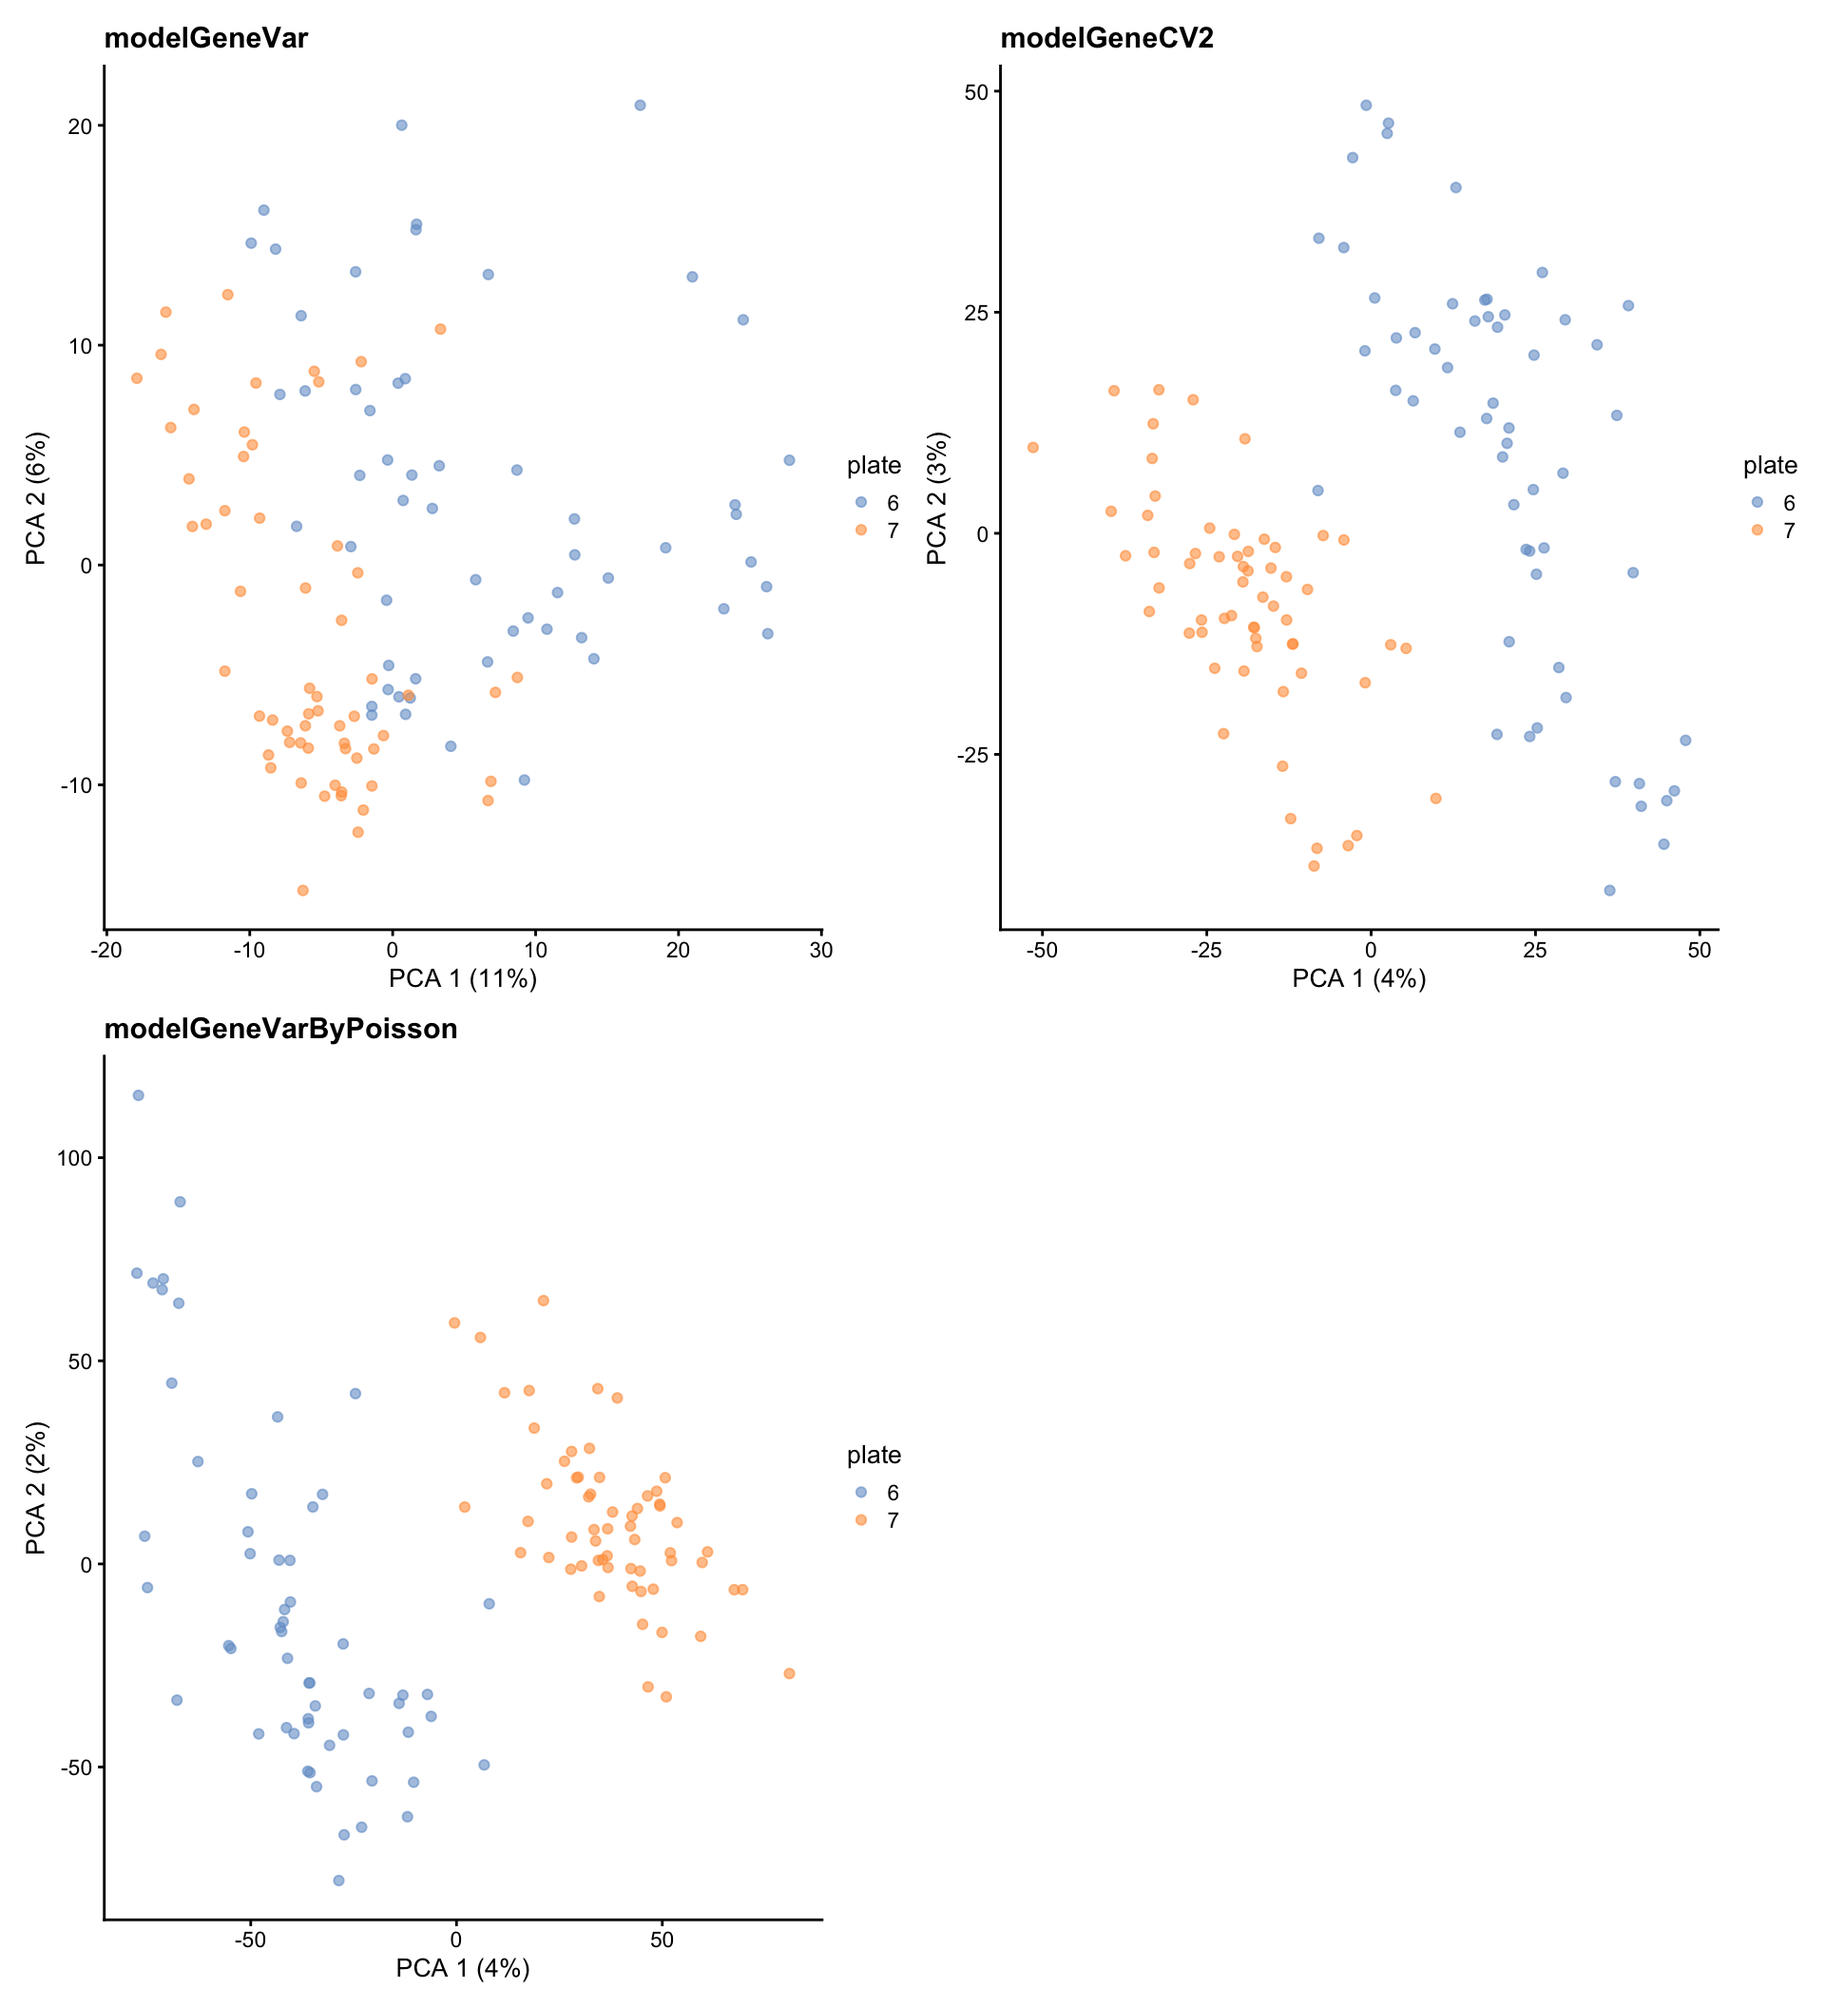
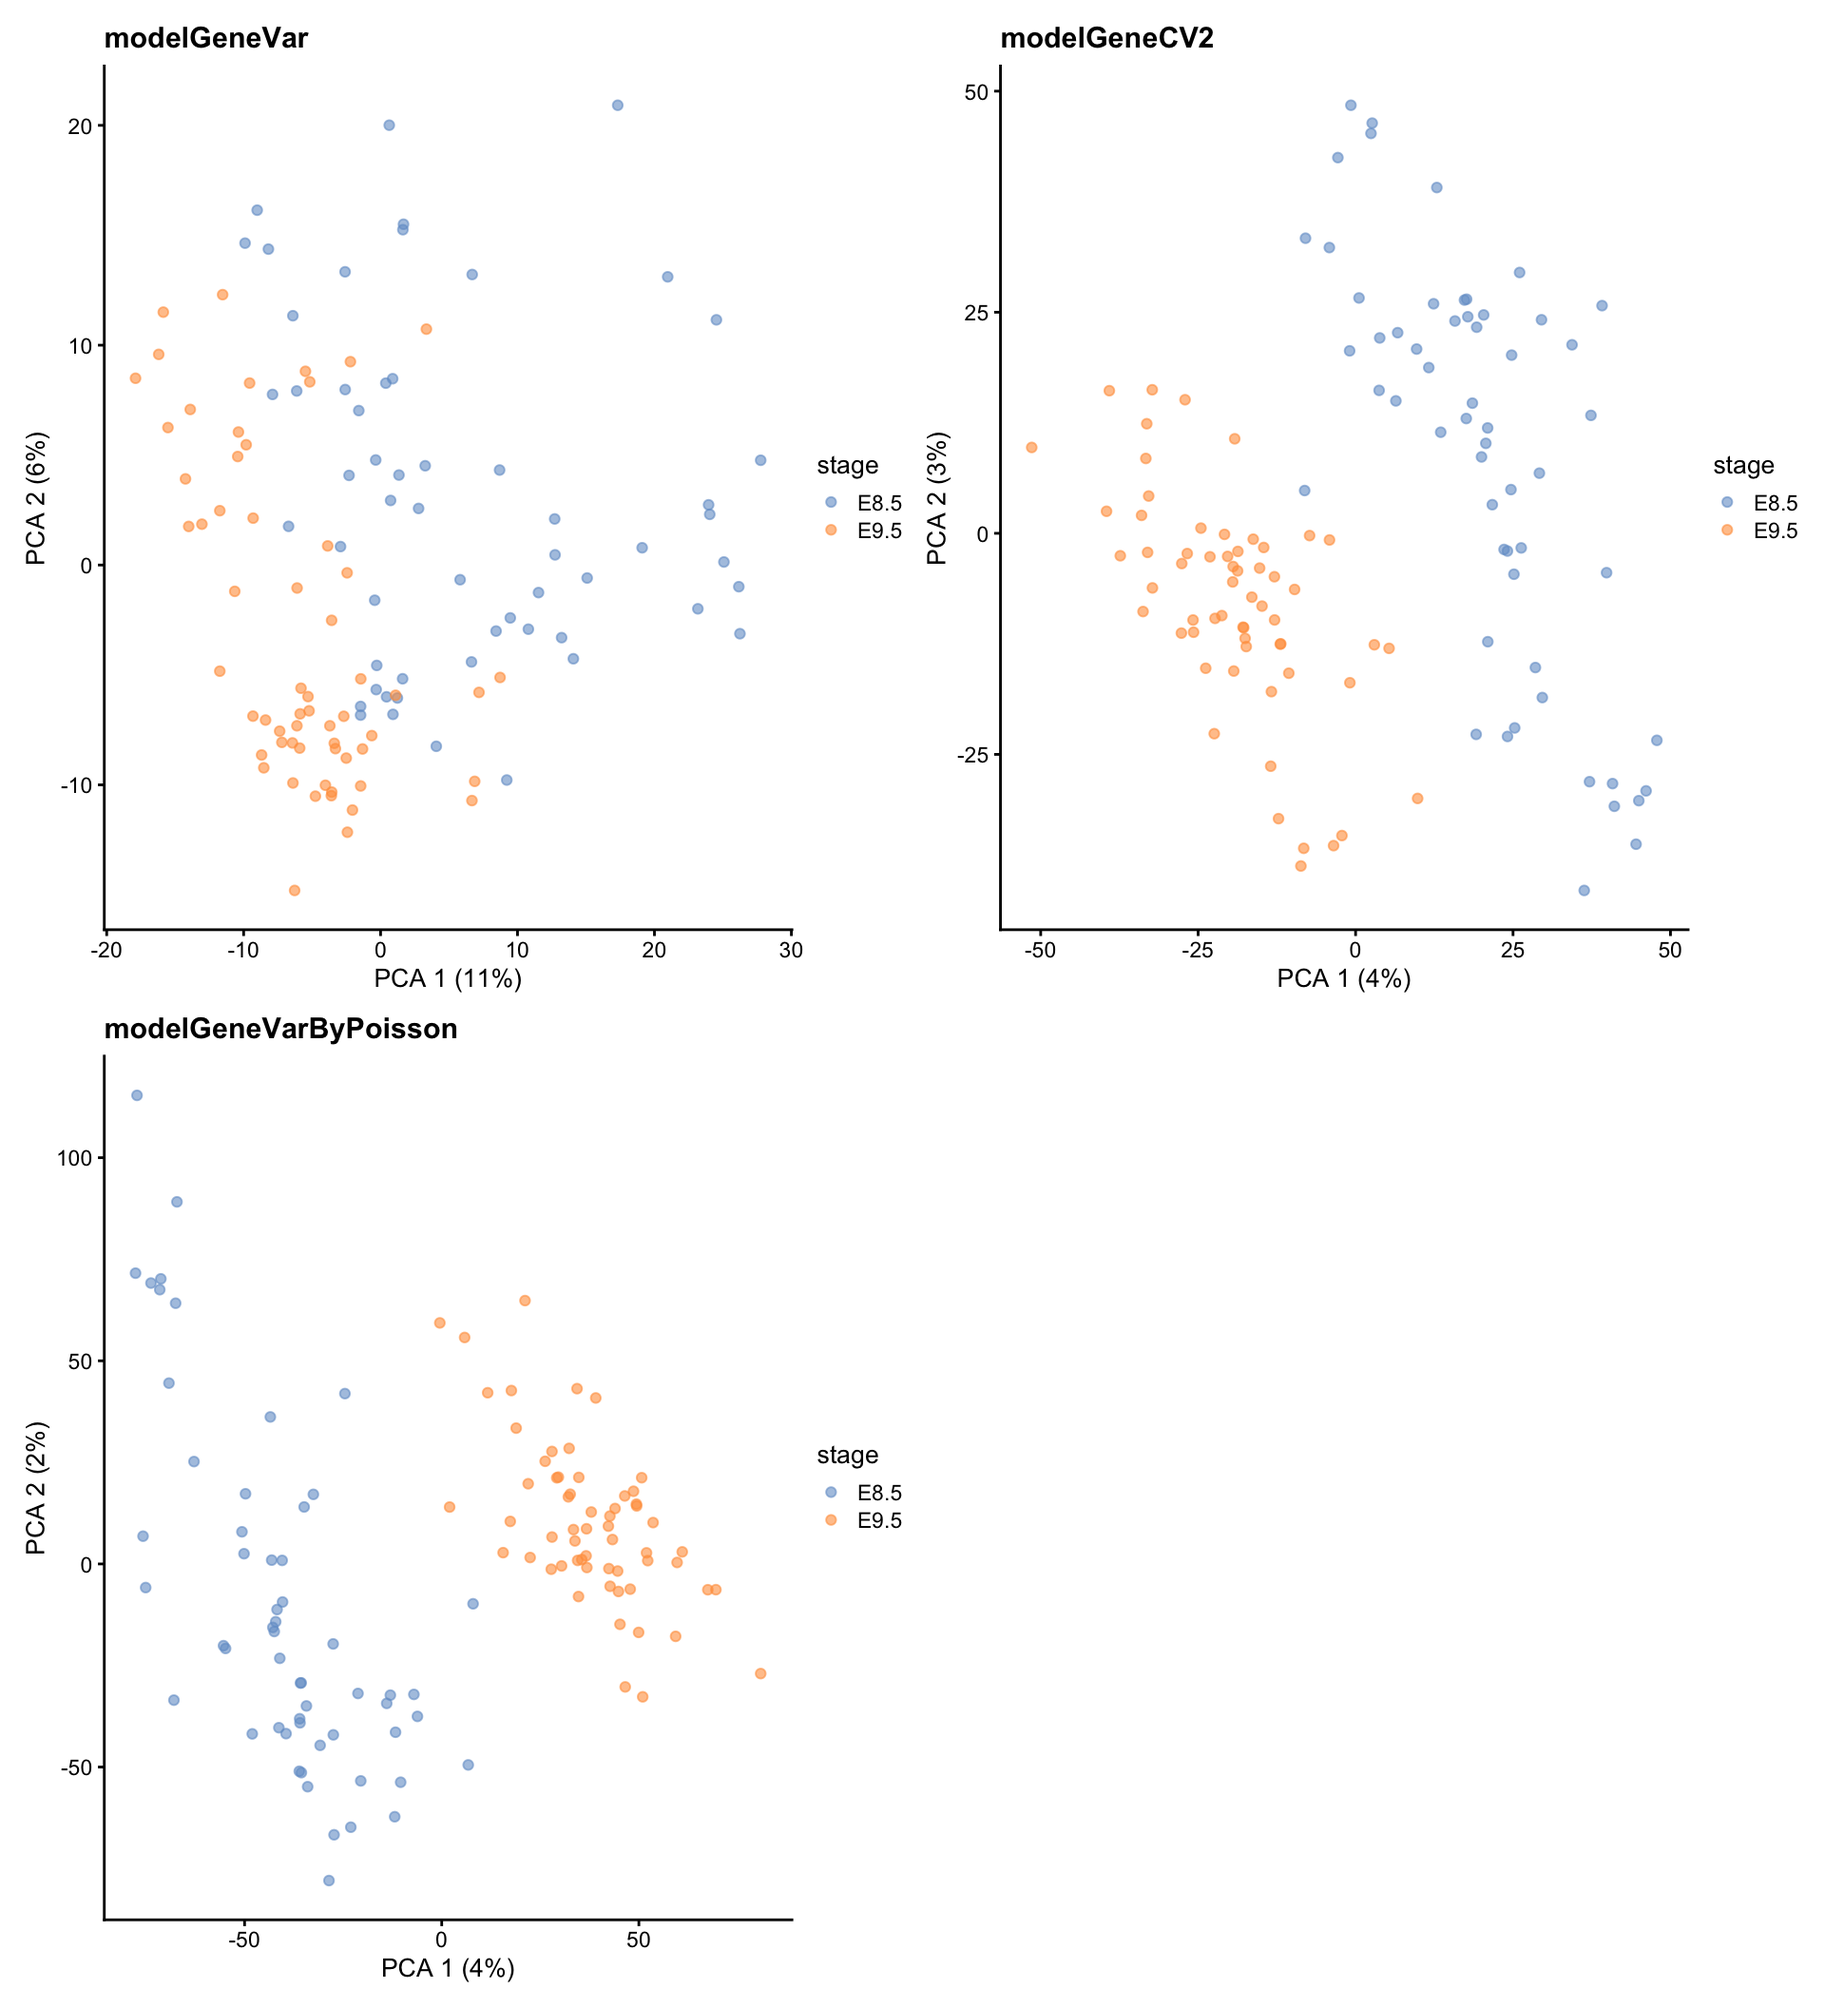
Build

diff --git a/docs/03-feature-selection.html b/docs/03-feature-selection.html
@@ -556,16 +556,16 @@ This reproducible <a href="http://rmarkdown.rstudio.com">R Markdown</a> analysis
 <div class="panel panel-default">
 <div class="panel-heading">
 <p class="panel-title">
-<a data-toggle="collapse" data-parent="#workflowr-checks" href="#strongRepositoryversionstrong5cf5987"> <span class="glyphicon glyphicon-ok text-success" aria-hidden="true"></span> <strong>Repository version:</strong> 5cf5987 </a>
+<a data-toggle="collapse" data-parent="#workflowr-checks" href="#strongRepositoryversionstrong509b55e"> <span class="glyphicon glyphicon-ok text-success" aria-hidden="true"></span> <strong>Repository version:</strong> 509b55e </a>
 </p>
 </div>
-<div id="strongRepositoryversionstrong5cf5987" class="panel-collapse collapse">
+<div id="strongRepositoryversionstrong509b55e" class="panel-collapse collapse">
 <div class="panel-body">
 <p>
 Great! You are using Git for version control. Tracking code development and connecting the code version to the results is critical for reproducibility.
 </p>
 <p>
-The results in this page were generated with repository version 5cf5987. See the <em>Past versions</em> tab to see a history of the changes made to the R Markdown and HTML files.
+The results in this page were generated with repository version 509b55e. See the <em>Past versions</em> tab to see a history of the changes made to the R Markdown and HTML files.
 </p>
 <p>
 Note that you need to be careful to ensure that all relevant files for the analysis have been committed to Git prior to generating the results (you can use <code>wflow_publish</code> or <code>wflow_git_commit</code>). workflowr only checks the R Markdown file, but you know if there are other scripts or data files that it depends on. Below is the status of the Git repository when the results were generated:
@@ -632,6 +632,40 @@ Message
 </tr>
 </thead>
 <tbody>
+<tr>
+<td>
+Rmd
+</td>
+<td>
+509b55e
+</td>
+<td>
+James Ashmore
+</td>
+<td>
+2021-04-16
+</td>
+<td>
+Build
+</td>
+</tr>
+<tr>
+<td>
+html
+</td>
+<td>
+edb4a81
+</td>
+<td>
+James Ashmore
+</td>
+<td>
+2021-04-16
+</td>
+<td>
+Build
+</td>
+</tr>
 <tr>
 <td>
 Rmd
@@ -1131,7 +1165,7 @@ pheatmap(mat, color = col, breaks = brk)</code></pre>
   
   sce &lt;- runPCA(sce, subset_row = hvg, BSPARAM = ExactParam())
 
-  plotPCA(sce, colour_by = &quot;plate&quot;) + ggtitle(x)
+  plotPCA(sce, colour_by = &quot;stage&quot;) + ggtitle(x)
 
 })
 
@@ -1161,6 +1195,17 @@ Date
 <tbody>
 <tr>
 <td>
+edb4a81
+</td>
+<td>
+James Ashmore
+</td>
+<td>
+2021-04-16
+</td>
+</tr>
+<tr>
+<td>
 db982c5
 </td>
 <td>
@@ -1187,7 +1232,7 @@ James Ashmore
   
   sce &lt;- runTSNE(sce, dimred = &quot;PCA&quot;)
 
-  plotTSNE(sce, colour_by = &quot;plate&quot;) + ggtitle(x)
+  plotTSNE(sce, colour_by = &quot;stage&quot;) + ggtitle(x)
 
 })
 
@@ -1217,6 +1262,17 @@ Date
 <tbody>
 <tr>
 <td>
+edb4a81
+</td>
+<td>
+James Ashmore
+</td>
+<td>
+2021-04-16
+</td>
+</tr>
+<tr>
+<td>
 db982c5
 </td>
 <td>
@@ -1243,7 +1299,7 @@ James Ashmore
   
   sce &lt;- runUMAP(sce, dimred = &quot;PCA&quot;)
 
-  plotUMAP(sce, colour_by = &quot;plate&quot;) + ggtitle(x)
+  plotUMAP(sce, colour_by = &quot;stage&quot;) + ggtitle(x)
 
 })
 
@@ -1271,6 +1327,17 @@ Date
 </tr>
 </thead>
 <tbody>
+<tr>
+<td>
+edb4a81
+</td>
+<td>
+James Ashmore
+</td>
+<td>
+2021-04-16
+</td>
+</tr>
 <tr>
 <td>
 62e04e3

diff --git a/docs/02-normalization.html b/docs/02-normalization.html
@@ -556,16 +556,16 @@ This reproducible <a href="http://rmarkdown.rstudio.com">R Markdown</a> analysis
 <div class="panel panel-default">
 <div class="panel-heading">
 <p class="panel-title">
-<a data-toggle="collapse" data-parent="#workflowr-checks" href="#strongRepositoryversionstrong5cf5987"> <span class="glyphicon glyphicon-ok text-success" aria-hidden="true"></span> <strong>Repository version:</strong> 5cf5987 </a>
+<a data-toggle="collapse" data-parent="#workflowr-checks" href="#strongRepositoryversionstrong509b55e"> <span class="glyphicon glyphicon-ok text-success" aria-hidden="true"></span> <strong>Repository version:</strong> 509b55e </a>
 </p>
 </div>
-<div id="strongRepositoryversionstrong5cf5987" class="panel-collapse collapse">
+<div id="strongRepositoryversionstrong509b55e" class="panel-collapse collapse">
 <div class="panel-body">
 <p>
 Great! You are using Git for version control. Tracking code development and connecting the code version to the results is critical for reproducibility.
 </p>
 <p>
-The results in this page were generated with repository version 5cf5987. See the <em>Past versions</em> tab to see a history of the changes made to the R Markdown and HTML files.
+The results in this page were generated with repository version 509b55e. See the <em>Past versions</em> tab to see a history of the changes made to the R Markdown and HTML files.
 </p>
 <p>
 Note that you need to be careful to ensure that all relevant files for the analysis have been committed to Git prior to generating the results (you can use <code>wflow_publish</code> or <code>wflow_git_commit</code>). workflowr only checks the R Markdown file, but you know if there are other scripts or data files that it depends on. Below is the status of the Git repository when the results were generated:
@@ -632,6 +632,23 @@ Message
 </tr>
 </thead>
 <tbody>
+<tr>
+<td>
+html
+</td>
+<td>
+edb4a81
+</td>
+<td>
+James Ashmore
+</td>
+<td>
+2021-04-16
+</td>
+<td>
+Build
+</td>
+</tr>
 <tr>
 <td>
 html

diff --git a/docs/about.html b/docs/about.html
@@ -417,16 +417,16 @@ This reproducible <a href="http://rmarkdown.rstudio.com">R Markdown</a> analysis
 <div class="panel panel-default">
 <div class="panel-heading">
 <p class="panel-title">
-<a data-toggle="collapse" data-parent="#workflowr-checks" href="#strongRepositoryversionstrong5cf5987"> <span class="glyphicon glyphicon-ok text-success" aria-hidden="true"></span> <strong>Repository version:</strong> 5cf5987 </a>
+<a data-toggle="collapse" data-parent="#workflowr-checks" href="#strongRepositoryversionstrong509b55e"> <span class="glyphicon glyphicon-ok text-success" aria-hidden="true"></span> <strong>Repository version:</strong> 509b55e </a>
 </p>
 </div>
-<div id="strongRepositoryversionstrong5cf5987" class="panel-collapse collapse">
+<div id="strongRepositoryversionstrong509b55e" class="panel-collapse collapse">
 <div class="panel-body">
 <p>
 Great! You are using Git for version control. Tracking code development and connecting the code version to the results is critical for reproducibility.
 </p>
 <p>
-The results in this page were generated with repository version 5cf5987. See the <em>Past versions</em> tab to see a history of the changes made to the R Markdown and HTML files.
+The results in this page were generated with repository version 509b55e. See the <em>Past versions</em> tab to see a history of the changes made to the R Markdown and HTML files.
 </p>
 <p>
 Note that you need to be careful to ensure that all relevant files for the analysis have been committed to Git prior to generating the results (you can use <code>wflow_publish</code> or <code>wflow_git_commit</code>). workflowr only checks the R Markdown file, but you know if there are other scripts or data files that it depends on. Below is the status of the Git repository when the results were generated:
@@ -493,6 +493,23 @@ Message
 </tr>
 </thead>
 <tbody>
+<tr>
+<td>
+html
+</td>
+<td>
+edb4a81
+</td>
+<td>
+James Ashmore
+</td>
+<td>
+2021-04-16
+</td>
+<td>
+Build
+</td>
+</tr>
 <tr>
 <td>
 html

diff --git a/docs/index.html b/docs/index.html
@@ -417,16 +417,16 @@ This reproducible <a href="http://rmarkdown.rstudio.com">R Markdown</a> analysis
 <div class="panel panel-default">
 <div class="panel-heading">
 <p class="panel-title">
-<a data-toggle="collapse" data-parent="#workflowr-checks" href="#strongRepositoryversionstrong5cf5987"> <span class="glyphicon glyphicon-ok text-success" aria-hidden="true"></span> <strong>Repository version:</strong> 5cf5987 </a>
+<a data-toggle="collapse" data-parent="#workflowr-checks" href="#strongRepositoryversionstrong509b55e"> <span class="glyphicon glyphicon-ok text-success" aria-hidden="true"></span> <strong>Repository version:</strong> 509b55e </a>
 </p>
 </div>
-<div id="strongRepositoryversionstrong5cf5987" class="panel-collapse collapse">
+<div id="strongRepositoryversionstrong509b55e" class="panel-collapse collapse">
 <div class="panel-body">
 <p>
 Great! You are using Git for version control. Tracking code development and connecting the code version to the results is critical for reproducibility.
 </p>
 <p>
-The results in this page were generated with repository version 5cf5987. See the <em>Past versions</em> tab to see a history of the changes made to the R Markdown and HTML files.
+The results in this page were generated with repository version 509b55e. See the <em>Past versions</em> tab to see a history of the changes made to the R Markdown and HTML files.
 </p>
 <p>
 Note that you need to be careful to ensure that all relevant files for the analysis have been committed to Git prior to generating the results (you can use <code>wflow_publish</code> or <code>wflow_git_commit</code>). workflowr only checks the R Markdown file, but you know if there are other scripts or data files that it depends on. Below is the status of the Git repository when the results were generated:
@@ -493,6 +493,23 @@ Message
 </tr>
 </thead>
 <tbody>
+<tr>
+<td>
+html
+</td>
+<td>
+edb4a81
+</td>
+<td>
+James Ashmore
+</td>
+<td>
+2021-04-16
+</td>
+<td>
+Build
+</td>
+</tr>
 <tr>
 <td>
 html

diff --git a/docs/license.html b/docs/license.html
@@ -417,16 +417,16 @@ This reproducible <a href="http://rmarkdown.rstudio.com">R Markdown</a> analysis
 <div class="panel panel-default">
 <div class="panel-heading">
 <p class="panel-title">
-<a data-toggle="collapse" data-parent="#workflowr-checks" href="#strongRepositoryversionstrong5cf5987"> <span class="glyphicon glyphicon-ok text-success" aria-hidden="true"></span> <strong>Repository version:</strong> 5cf5987 </a>
+<a data-toggle="collapse" data-parent="#workflowr-checks" href="#strongRepositoryversionstrong509b55e"> <span class="glyphicon glyphicon-ok text-success" aria-hidden="true"></span> <strong>Repository version:</strong> 509b55e </a>
 </p>
 </div>
-<div id="strongRepositoryversionstrong5cf5987" class="panel-collapse collapse">
+<div id="strongRepositoryversionstrong509b55e" class="panel-collapse collapse">
 <div class="panel-body">
 <p>
 Great! You are using Git for version control. Tracking code development and connecting the code version to the results is critical for reproducibility.
 </p>
 <p>
-The results in this page were generated with repository version 5cf5987. See the <em>Past versions</em> tab to see a history of the changes made to the R Markdown and HTML files.
+The results in this page were generated with repository version 509b55e. See the <em>Past versions</em> tab to see a history of the changes made to the R Markdown and HTML files.
 </p>
 <p>
 Note that you need to be careful to ensure that all relevant files for the analysis have been committed to Git prior to generating the results (you can use <code>wflow_publish</code> or <code>wflow_git_commit</code>). workflowr only checks the R Markdown file, but you know if there are other scripts or data files that it depends on. Below is the status of the Git repository when the results were generated:
@@ -493,6 +493,23 @@ Message
 </tr>
 </thead>
 <tbody>
+<tr>
+<td>
+html
+</td>
+<td>
+edb4a81
+</td>
+<td>
+James Ashmore
+</td>
+<td>
+2021-04-16
+</td>
+<td>
+Build
+</td>
+</tr>
 <tr>
 <td>
 html
